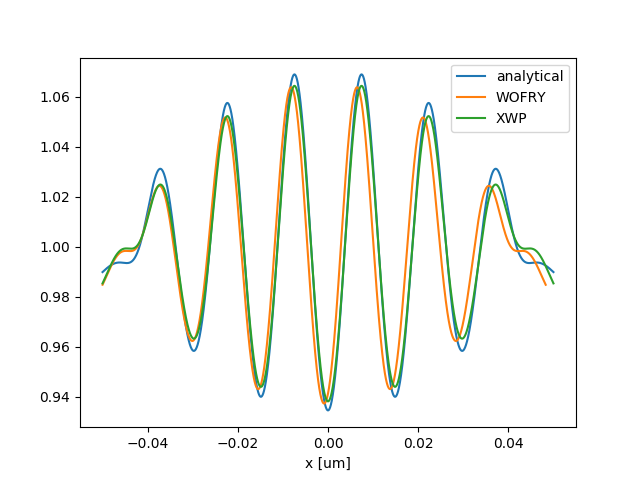
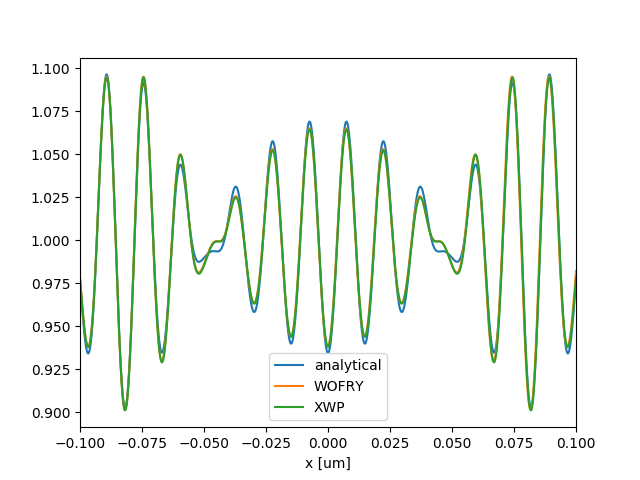
working...

diff --git a/template.tex b/template.tex
@@ -429,7 +429,6 @@ The system simulated in Fig.~\ref{fig: aperture_1D} refers to  the Fresnel diffr
 \begin{figure}
 \label{fig: aperture_1D_analytical}
 \caption{Comparison of the central part of the pattern in Fig.~\ref{fig: aperture_1D} calculated with XWP and WOFRY and compared to the analytical results.
-\todo{check shift in WOFRY!}
 }
 \includegraphics[width=1\textwidth]{aperture_1D_analytical.png}
 \end{figure}
@@ -451,10 +450,12 @@ This is the standard implementation of the Fresnel propagator using two FFT impl
 The near field calculation presented in Fig.~\ref{fig: aperture_1D_analytical} is calculated now in 2D for both square and circular apertures, applying the Fresnel propagator that uses FFT (Eq.~\ref{eq: Fresnel propagation in convolution form}. The calculation results using ``SRW standard propagator'' is presented in Fig.~\ref{fig: SRW aperture}. 
 \begin{figure}
 \label{fig: SRW aperture}
-\caption{Propagation of a plane wavefront of photon energy 10 keV in the near field (propagation distance 75$\mu$m) clipped by a rectangular slit (left) and circular slit (right). Window size $w$=5$\mu$m, aperture height and width or diameter is $w$/4, number of pixels: 2048$\times$2048. The results shown have been calculated with SRW. \todo{make a better graphic}
+\caption{Propagation of a plane wavefront of photon energy 10 keV in the near field (propagation distance 75$\mu$m) clipped by a rectangular slit (left) and circular slit (right). Window size is $w$=5$\mu$m, the aperture height and width or diameter is $w$/4, number of pixels: 2048$\times$2048. Teh bottom row show the profiles at $y=0$. These calculations have been done with SRW.
 }
-\includegraphics[width=0.45\textwidth]{srw_rectangular_aperture.png}
-\includegraphics[width=0.45\textwidth]{srw_circular_aperture.png}
+\includegraphics[width=0.45\textwidth]{aperture_2D_rectangular_srw.png}
+\includegraphics[width=0.45\textwidth]{aperture_2D_circular_srw.png}
+\includegraphics[width=0.45\textwidth]{aperture_2D_rectangular_profile_srw.png}
+\includegraphics[width=0.45\textwidth]{aperture_2D_circular_profile_srw.png}
 \end{figure}
 Following the same scenario as done for 1D calculations, we want now to compare in detail the results of the different packages presented here with the analytical results. As mentioned, for the rectangular aperture the propagated field can be written as a function of the Fresnel integrals
 \begin{equation}\label{eq: fresnel integrals}
@@ -469,23 +470,31 @@ where the function $\mathcal{I}(z)$ is:
 \mathcal{I}(t) = & \frac{1}{\sqrt 2}[ C(2 \sqrt{2 N_{F,t}} (1 - 2 t /t_{max}) + C(2 \sqrt{2 N_{F,t}} (1 + 2 t /t_{max})] +\\
 		 & \frac{i}{\sqrt 2}[ S(2 \sqrt{2 N_{F,t}} (1 - 2 t /t_{max}) + S(2 \sqrt{2 N_{F,t}} (1 + 2 z /t_{max})]
 \end{align}
-and $N_F$ is the Fresnel number calculated for the $t$ direction: $N_{F,t} = t_{max}^2 / (\lambda \Delta z)$ ($t_{max}$ is the half-aperture in the $t$ direction, $t=(x,y)$).
+and $N_F$ is the Fresnel number calculated for the $t$ direction: $N_{F,t} = t_{max}^2 / (\lambda \Delta z)$, $t_{max}$ is the half-aperture in the $t$ direction, $t=(x,y)$.
 For the circular aperture, the propagated field is proportional to the integral:
 \begin{equation}\label{eq: analytical rectangular slit}
 R(z'; \Delta z) = \int_0^{N_F} \eta e^{i \pi \eta^2} J_0(2 \pi \eta r') d\eta 
 \end{equation}
-where $r'$ is a normalized radial coordinate $r' = \sqrt{(x^2 + y^2)/(\lambda \Delta z)}$.
+where $r'$ is a normalized radial coordinate $r' = \sqrt{(x^2 + y^2)/(\lambda \Delta z)}$, and $J_0$ the first-kind Bessel function of zeroth order. This integral has no analytical form but can be easily integrated numerically. Fig.~\ref{fig: 2D aperture comparison} shows a zoom of the central part of the profile at $y=0$ in Fig.~\ref{fig: SRW aperture}a calculated with different libraries. Note that the abscissas grid is not dense enough to follow in detail the oscillations. If one wants to increase the spatial resolution by a factor of 2, one has to extend the window ar the source by a factor of 2 in both directions. To keep the same pixel size at the source, one must consequently increase also by a factor of 2 the number of points. The result is in Fig.~\ref{fig: SRW aperture}b. 
+\begin{figure}
+\label{fig: SRW aperture}
+\caption{The central part of the diffraction pattern profiles at $y=0$ for a rectangular aperture (a) and circular aperture (b) in Fig.~\ref{fig: SRW aperture} with 4096$\times$4096 pixels. Results of different software packages are compared with the analytical results.\todo{calculate with pyNX and XWP}
+}
+a)
+\includegraphics[width=0.45\textwidth]{aperture_2D_rectangular_profile_comparison.png}
+b)
+\includegraphics[width=0.45\textwidth]{aperture_2D_circular_profile_comparison.png}
+\end{figure}
 
 
-\todo{ Calculate zoomed part of Fig.~\ref{fig: SRW aperture} with different libraries. 
-Discuss Control parameters: 
+\todo{ Look at the phase. Discuss Control parameters: 
 \begin{enumerate}
 \item Window size
 \item Pixel size
 \item Number of points (power of 2?)
 \item odd or even number of points
 \end{enumerate}
-Look at the phase 
+ 
 }
 
 
@@ -499,16 +508,56 @@ It has been shown that undesampling the source cause replicas in the image (see 
 
 Let us consider a quadratic phase term $\exp(i A x^2)$. The condition for ``good sampling'' is:
 
-\begin{equation}\label{eq: xxx1}
+\begin{equation}
 \frac{1}{2 \pi} \frac{\partial}{\partial x}(A x^2) = \frac{1}{2 \delta_x}
 \end{equation}
 expressing the spatial coordinate $x_j=X_J \delta_x$ with $X_j = [-N/2,-N/2 -1, ..., 0,..., N/2[$:
-\begin{equation}\label{eq: xxx2}
+\begin{equation}
 \frac{1}{2 \pi} \frac{1}{\delta_x} \frac{\partial}{\partial X}(A (X \delta_x)^2) = \frac{1}{2 \delta_x}
 \end{equation}
-\begin{equation}\label{eq:xxx3}
+\begin{equation}\label{eq: good sampling condition}
 A \leq \frac{\pi}{N \delta_x^2}
 \end{equation}
+
+\begin{figure}
+\label{fig: phase sampling}
+\caption{Illustration of a good sampling (a) and bad sampling (b) of the real part of the function $f(x)=exp(i A x^2)$ with (a) $A$=20$< \pi / (N \delta_x^2)$ and (b) $A$=30$ > \pi / (N \delta_x^2)$ with $N=10$ and $\pi / (N \delta_x^2)$=25.4. 
+}
+a)
+\includegraphics[width=0.45\textwidth]{sample_quadratic_phase_A20.png}
+b)
+\includegraphics[width=0.45\textwidth]{sample_quadratic_phase_A30.png}
+\end{figure}
+
+The condition in Eq.~\ref{eq: good sampling condition} should be applied to all quadratic exponential phases in the propagators. For the zoom propagator, these conditions can be expressed as a function of the propagation distance $\Delta z$ \inred{Reference pyNX documentation}:
+\begin{equation}\label{eq: good sampling zoom pynx}
+max\left\{ \frac{|m-1| N \delta_x^2}{\lambda}; \left| \frac{m-1}{m} \right|\frac{N \delta_x^2}{\lambda} \right\} < \Delta z < \frac{m N \delta_x^2}{\lambda}
+\end{equation}
+For the Fresnel propagators we can use these expressions and set $m=1$ to they reduce to the unique condition: 
+\begin{equation}\label{eq: good sampling fresnel}
+\Delta z < \frac{N \delta_x^2}{\lambda}
+\end{equation}
+
+The condition in Eq.~\ref{eq: good sampling condition} can also be expressed for the zoom propagator as a function of the source pixel size $\delta_x$ and the image pixel size $\delta_{x'}=m \delta_x$ which gives the following conditions (see Ref.~\cite{pirro}):
+\begin{equation}\label{eq: good sampling pirro condition one}
+\delta_{x'} > \frac{\lambda \Delta z}{N \delta_x}
+\end{equation}
+\begin{equation}\label{eq: good sampling pirro condition two}
+\left(1+\frac{\Delta z}{R}\right) \delta_x - \left( 1 + \frac{\Delta z}{R}\right) \delta_x + \frac{\lambda \Delta z}{\delta_x N}
+\end{equation}
+where $R$ is the dominant curvature of the source wavefront (positive for a divergent beam). To illustrate this condition we have explored the parameter space, in this case ($\delta_x,\delta_{x'}$ and simulate the propagation of a divergent beam. \todo{comment results}
+
+\begin{figure}
+\label{fig: comparison validity conditions R=28.3}
+\caption{
+Parameters map comparing the theoretical condition of propagation (lines) that define the validity region and a figure of merit obtained comparing a simulation with the theoretical result (false colour map). Equation \ref{eq: good sampling pirro condition one} refers to
+"condition $1$" of the label (hyperbola), equation \ref{eq: good sampling pirro condition two} to "condition $2$" (straight lines). Spherical wavefronts of $\lambda=0.73 \AA$ with radius of curvature $R = 28.3$ $m$ with a Gaussian intensity profile are propagate for a distance of $23.4$ $m$. The abscissas and ordinates refer to the source ($w_1=N \delta_x$) and image window size $w_2 = N \delta_{x'}$. Left plot is for 1024$\times$1024 pixels and right plot 2048$\times$2048. 
+%Figure \ref{1024 R=28.3} refers to the test done by sampling with $1024$ point while figure \ref{2048 R=28.3} to one done sampling with $2048$ points. Colors represents logarithmic values: blue for 'good' results, yellow for 'bad'.
+%The three red letters in fig \ref{1024 R=28.3} are used in the following figures to show the results of the propagations corresponding to those zones in the map.
+}
+\includegraphics[width=0.45\textwidth]{npixel1024-prop_dist23-R28-Finf_con_zone.png}
+\includegraphics[width=0.45\textwidth]{npixel2048-prop_dist23-R28-Finf.png}
+\end{figure}
 
 
 \subsection{The phase sampling problem}
